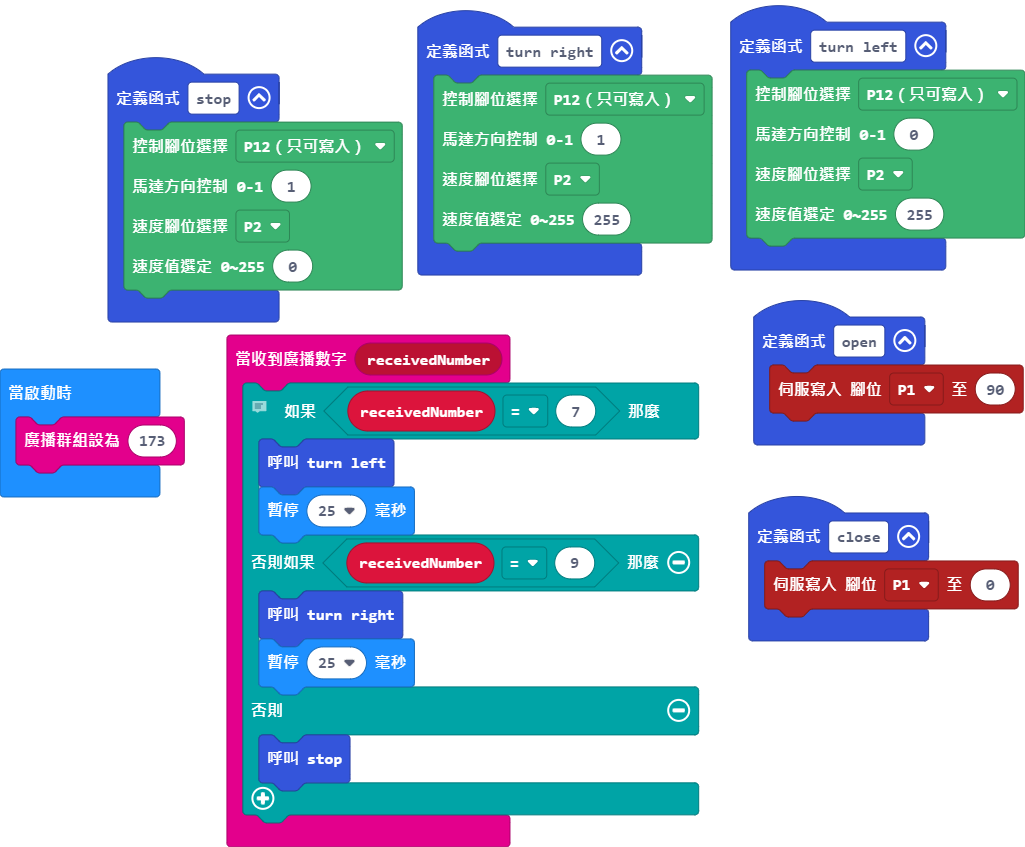
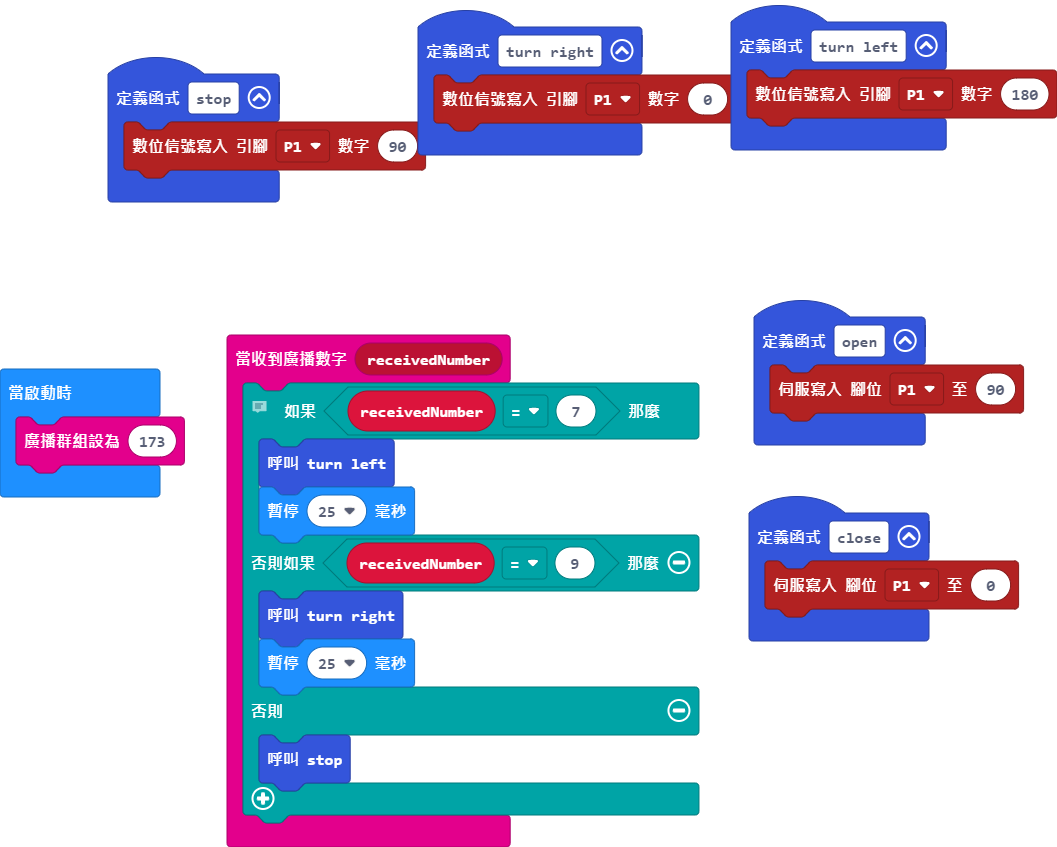
更新 main.blocks, main.ts

diff --git a/main.ts b/main.ts
@@ -21,30 +21,15 @@ radio.onReceivedNumber(function (receivedNumber) {
     }
 })
 function turn_right () {
-    sensors.DDMmotor(
-    AnalogPin.P12,
-    1,
-    AnalogPin.P2,
-    255
-    )
+    pins.digitalWritePin(DigitalPin.P1, 0)
 }
 function stop () {
-    sensors.DDMmotor(
-    AnalogPin.P12,
-    1,
-    AnalogPin.P2,
-    0
-    )
+    pins.digitalWritePin(DigitalPin.P1, 90)
 }
 function close () {
     pins.servoWritePin(AnalogPin.P1, 0)
 }
 function turn_left () {
-    sensors.DDMmotor(
-    AnalogPin.P12,
-    0,
-    AnalogPin.P2,
-    255
-    )
+    pins.digitalWritePin(DigitalPin.P1, 180)
 }
 radio.setGroup(173)
